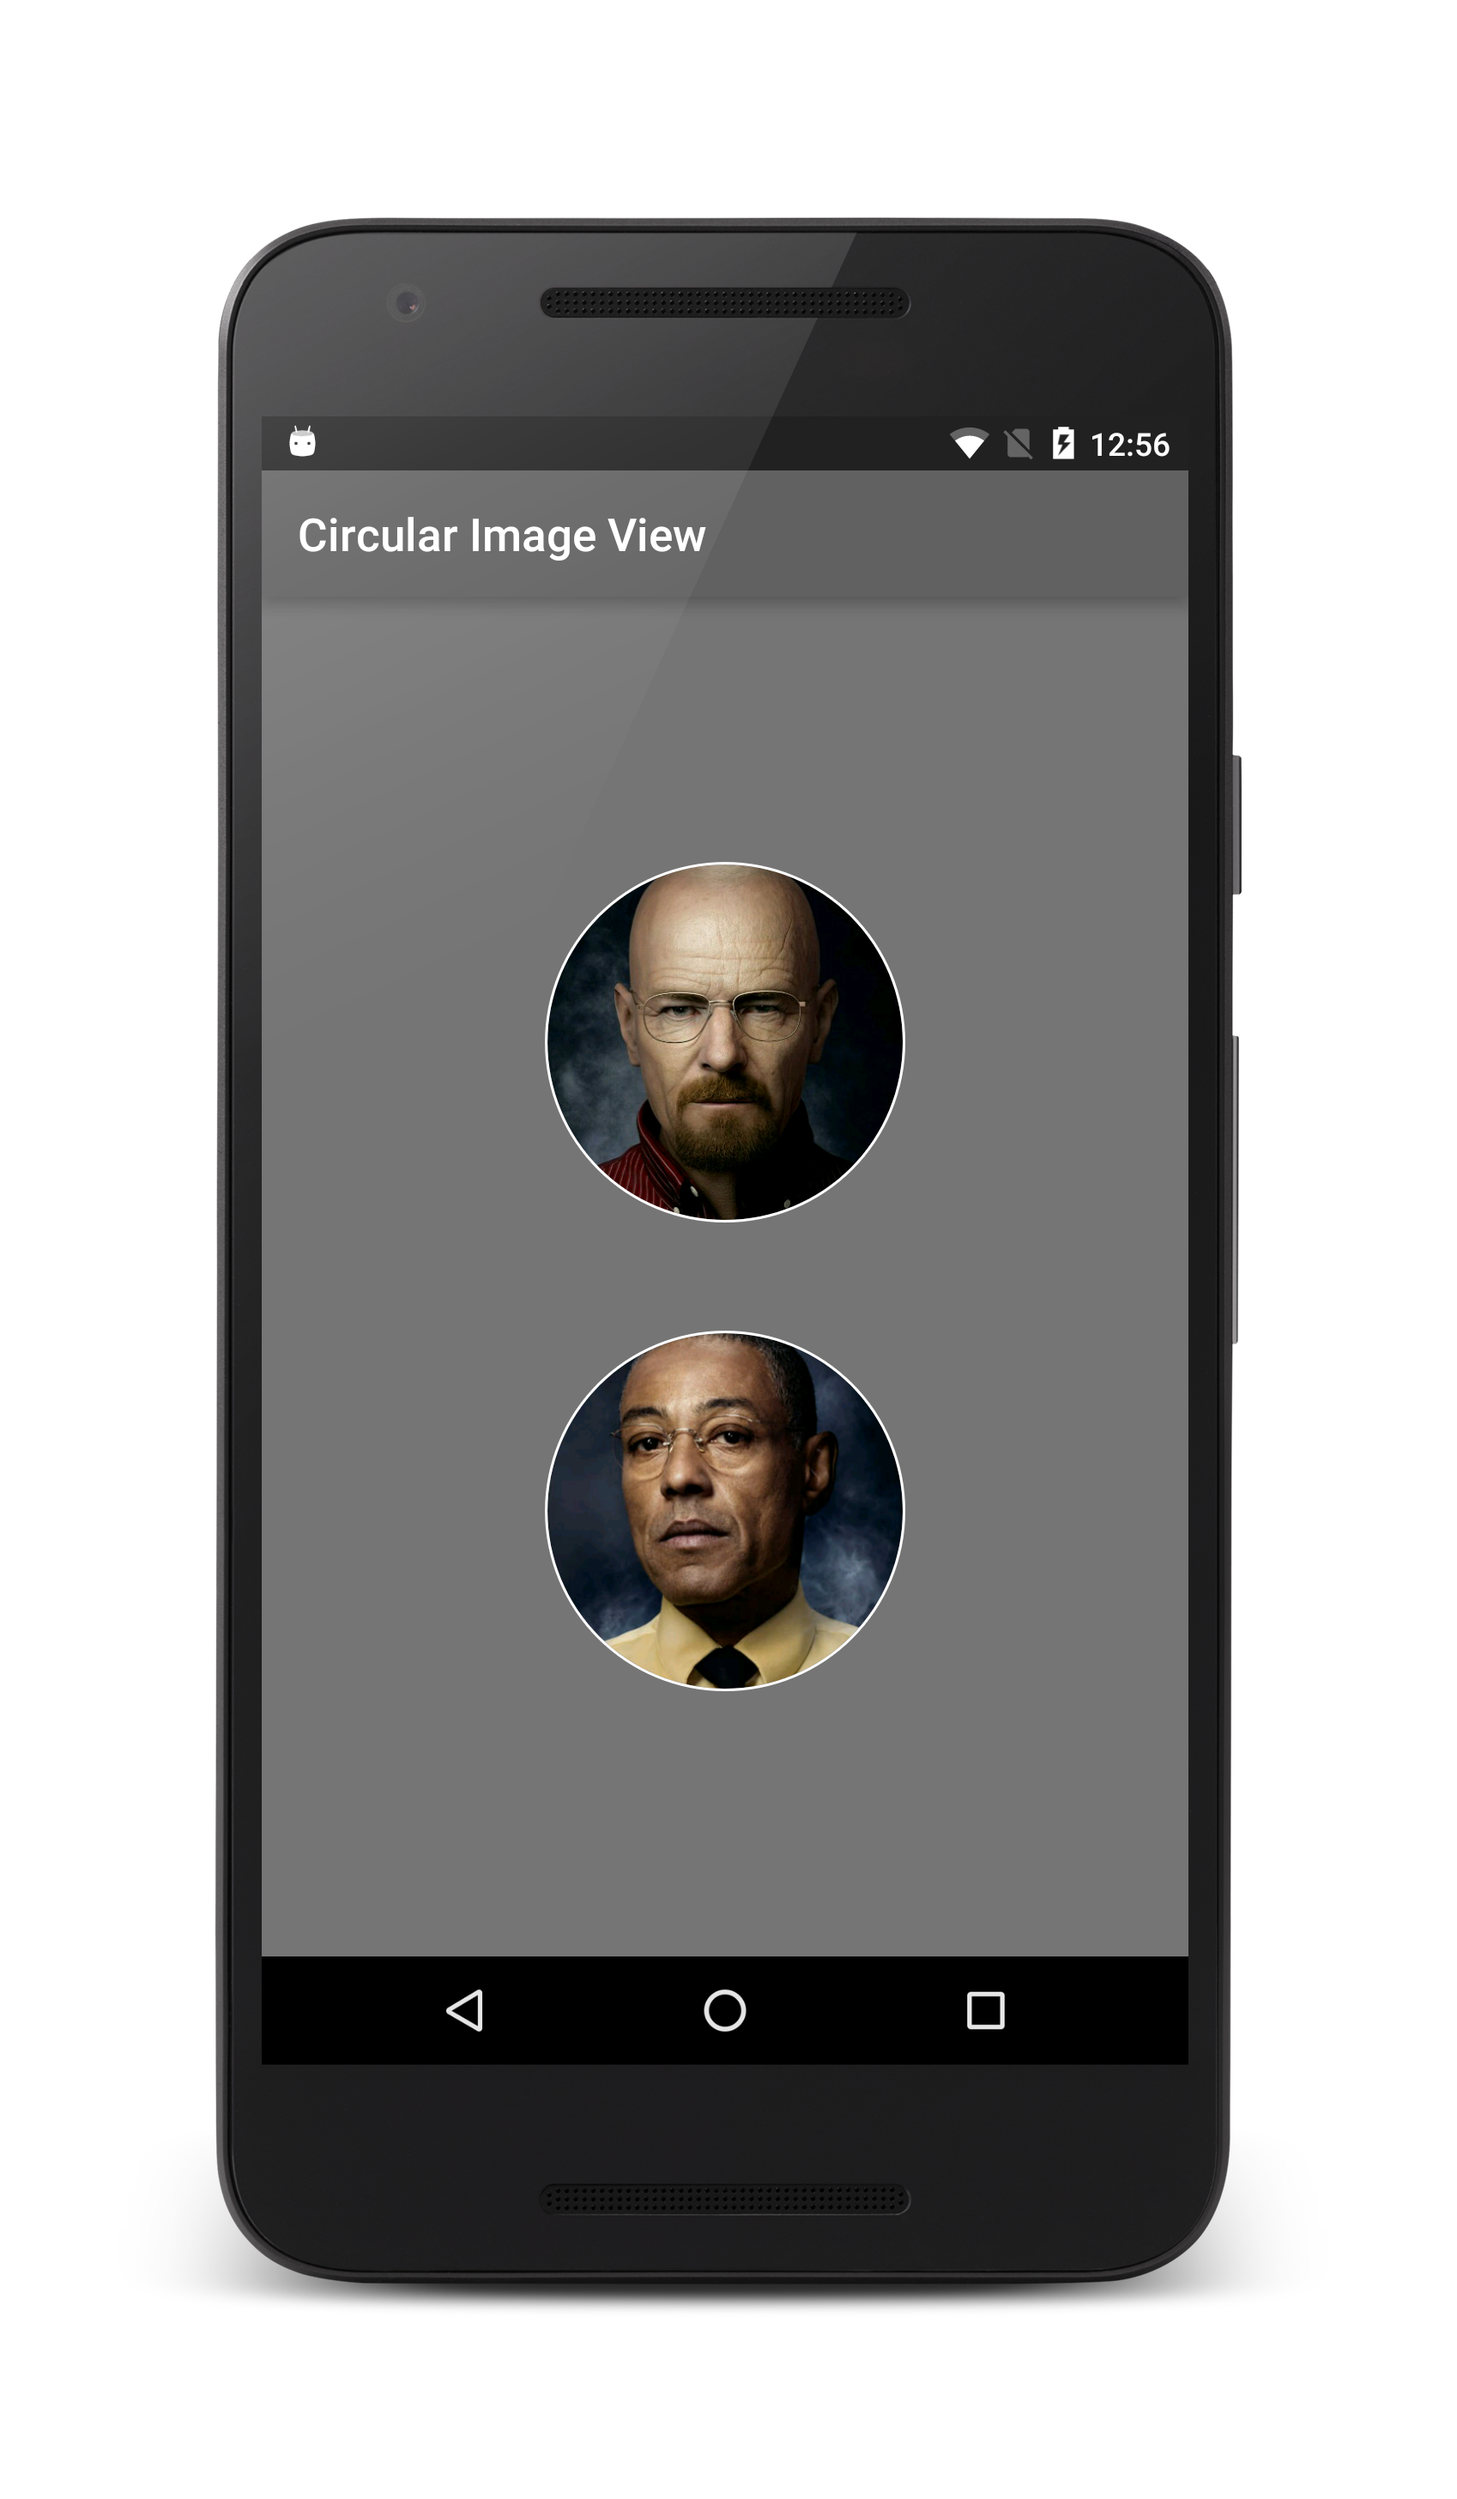
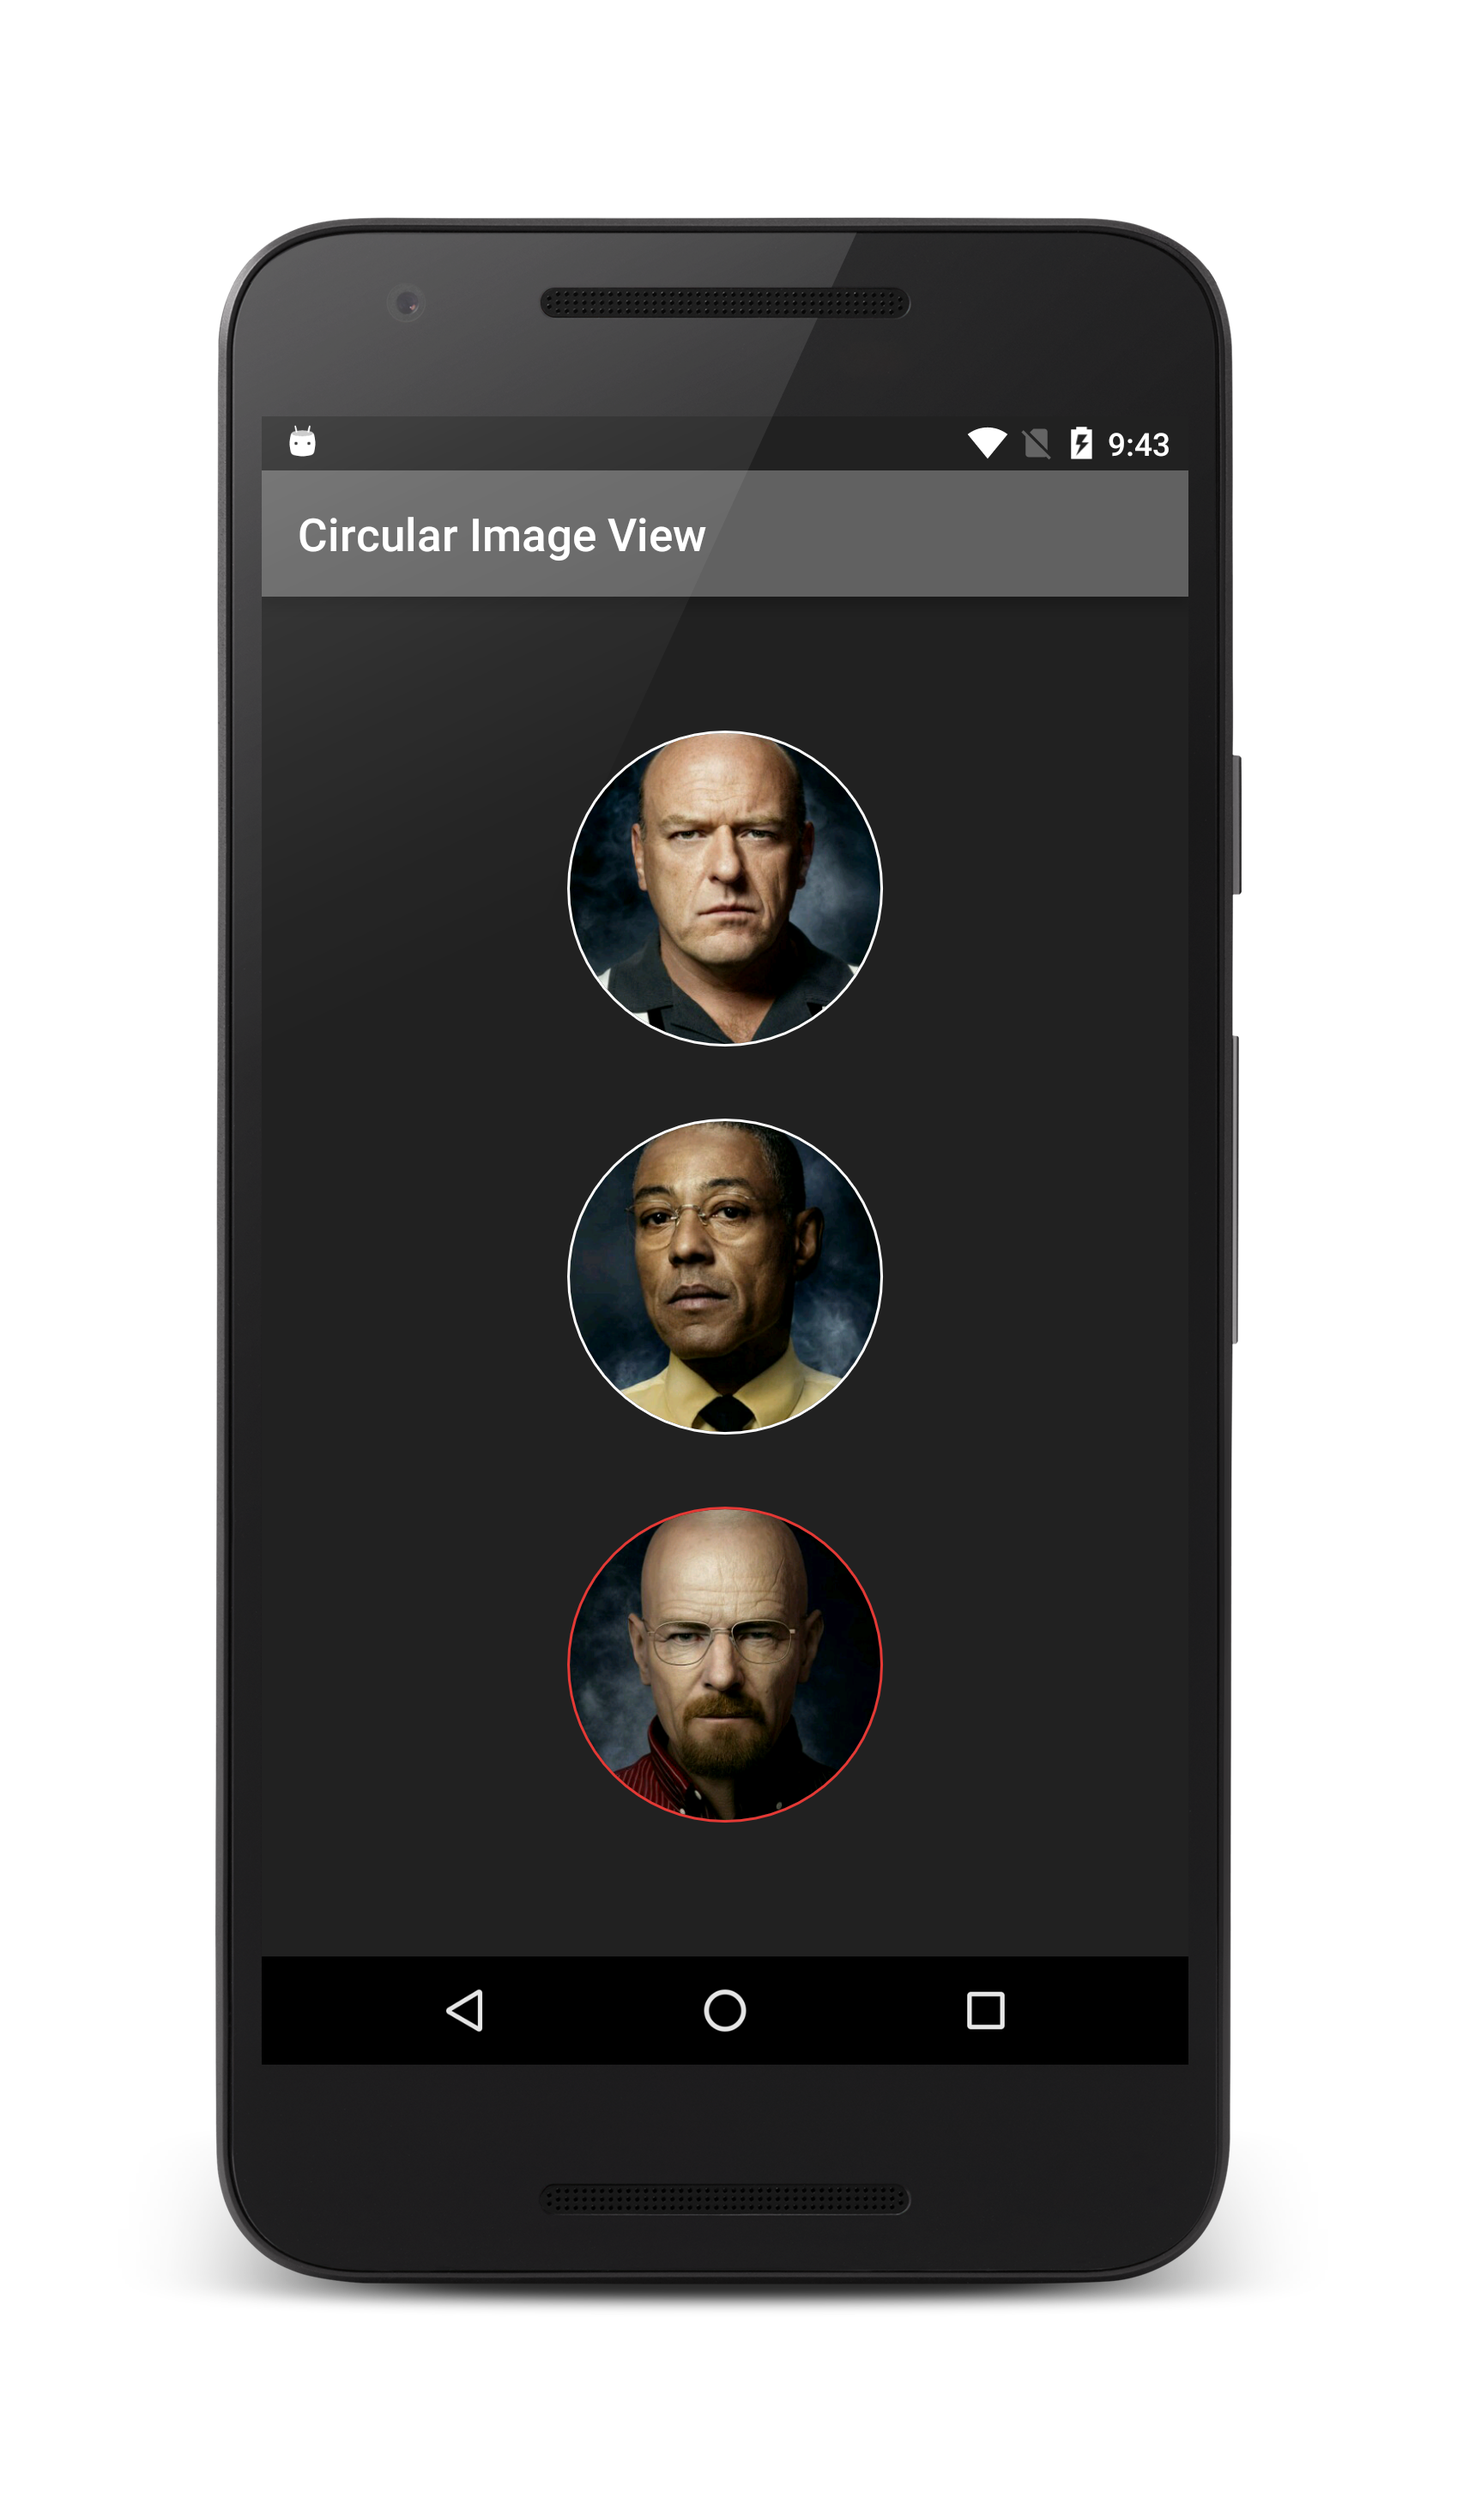
Update screen shot for version 1.0.3

diff --git a/sample/src/main/java/com/github/manjunathc23/sample/DemoActivity.java b/sample/src/main/java/com/github/manjunathc23/sample/DemoActivity.java
@@ -62,7 +62,7 @@ public class DemoActivity extends AppCompatActivity {
 
     @RawRes
     private int getRandomDrawable() {
-        switch (mRandom.nextInt(8)) {
+        switch (mRandom.nextInt(9)) {
             case 1:
                 return R.raw.walter;
             case 2:
